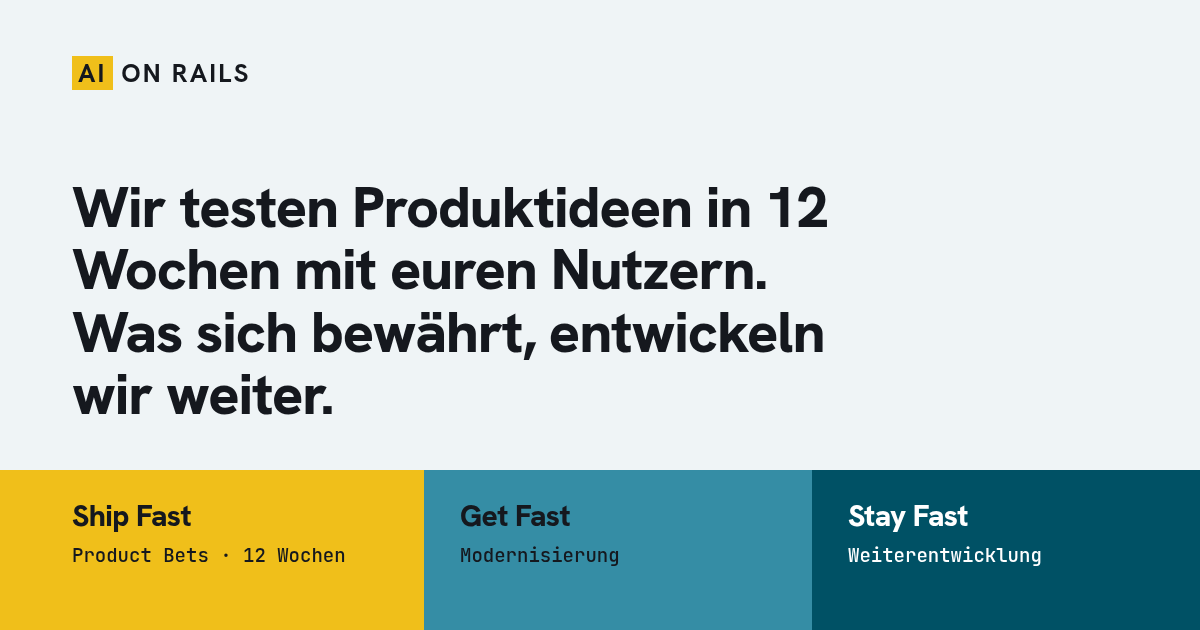
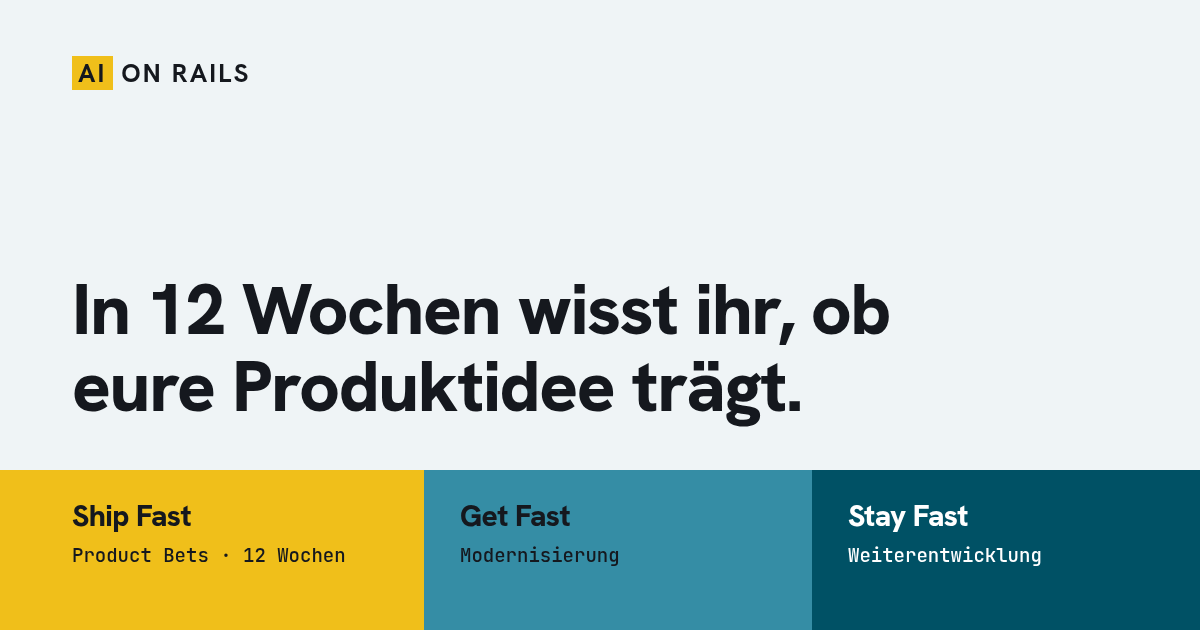
Startseite: Header nach Wert-Gleichung (Variante A)
- H1: Ergebnis statt Tätigkeit ('In 12 Wochen wisst ihr, ob eure Produktidee trägt.')
- Unterzeile: Woche 4 Test, Woche 12 Entscheidung, Festpreis, kein eigenes Team nötig
- CTA: 'Idee in 30 Minuten prüfen lassen', zweiter Button zum Ablauf
- Beleg-Zeile: Anrechnung Workshop-Tag, aktuelle Projekte
- Ship-Lead ohne Wiederholung des Headers, Kontakt-Text passend zum CTA, OG-Bild

Changed region(s): [[0.0617, 0.3921, 0.74, 0.6937], [0.0617, 0.3016, 0.7092, 0.3619]]

diff --git a/index.html b/index.html
@@ -4,11 +4,11 @@
   <meta charset="UTF-8">
   <meta name="viewport" content="width=device-width, initial-scale=1.0">
   <title>Produktentwicklung und Ruby on Rails Agentur Hamburg | ai-on-rails</title>
-  <meta name="description" content="Produktideen in 12 Wochen mit euren Nutzern testen und weiterentwickeln: Anforderungen, UX/UI-Design, Ruby on Rails. Agentur aus der Region Hamburg.">
+  <meta name="description" content="In 12 Wochen wissen, ob eine Produktidee trägt: laufende Anwendung auf euren Daten, Test mit euren Nutzern, Entscheidungsvorlage. Agentur, Region Hamburg.">
   <link rel="canonical" href="https://ai-on-rails.com/">
 
   <meta property="og:title" content="Produktentwicklung und Ruby on Rails Agentur Hamburg | ai-on-rails">
-  <meta property="og:description" content="Produktideen in 12 Wochen mit euren Nutzern testen und weiterentwickeln: Anforderungen, UX/UI-Design, Ruby on Rails. Agentur aus der Region Hamburg.">
+  <meta property="og:description" content="In 12 Wochen wissen, ob eine Produktidee trägt: laufende Anwendung auf euren Daten, Test mit euren Nutzern, Entscheidungsvorlage. Agentur, Region Hamburg.">
   <meta property="og:type" content="website">
   <meta property="og:url" content="https://ai-on-rails.com/">
   <meta property="og:image" content="https://ai-on-rails.com/og-image.png">
@@ -18,7 +18,7 @@
   <meta property="og:locale" content="de_DE">
   <meta name="twitter:card" content="summary_large_image">
   <meta name="twitter:title" content="Produktentwicklung und Ruby on Rails Agentur Hamburg | ai-on-rails">
-  <meta name="twitter:description" content="Produktideen in 12 Wochen mit euren Nutzern testen und weiterentwickeln: Anforderungen, UX/UI-Design, Ruby on Rails. Agentur aus der Region Hamburg.">
+  <meta name="twitter:description" content="In 12 Wochen wissen, ob eine Produktidee trägt: laufende Anwendung auf euren Daten, Test mit euren Nutzern, Entscheidungsvorlage. Agentur, Region Hamburg.">
   <meta name="twitter:image" content="https://ai-on-rails.com/og-image.png">
 
   <meta name="robots" content="index, follow">
@@ -87,7 +87,7 @@
       "@id": "https://ai-on-rails.com/#webpage",
       "url": "https://ai-on-rails.com/",
       "name": "Produktentwicklung und Ruby on Rails Agentur Hamburg | ai-on-rails",
-      "description": "Produktideen in 12 Wochen mit euren Nutzern testen und weiterentwickeln: Anforderungen, UX/UI-Design, Ruby on Rails. Agentur aus der Region Hamburg.",
+      "description": "In 12 Wochen wissen, ob eine Produktidee trägt: laufende Anwendung auf euren Daten, Test mit euren Nutzern, Entscheidungsvorlage. Agentur, Region Hamburg.",
       "inLanguage": "de-DE",
       "isPartOf": {
         "@id": "https://ai-on-rails.com/#website"
@@ -157,9 +157,10 @@
 <section class="start" id="start" aria-labelledby="start-h">
   <div class="in startgrid">
     <div>
-      <h1 id="start-h">Wir testen Produktideen in 12 Wochen mit euren Nutzern. Was sich bewährt, entwickeln wir weiter.</h1>
-      <p class="lead">ai-on-rails ist eine Agentur für Produktentwicklung aus der Region Hamburg. Wir klären Anforderungen, entwerfen UX und UI und entwickeln mit Ruby on Rails, auf euren Daten. Bestehende Webanwendungen modernisieren wir und entwickeln sie weiter.</p>
-      <div class="row"><a class="btn" href="#kontakt">Gespräch vereinbaren</a><a class="btn ghost" href="#ship">Leistungen ansehen</a></div>
+      <h1 id="start-h">In 12 Wochen wisst ihr, ob eure Produktidee trägt.</h1>
+      <p class="lead">Wir bauen sie als laufende Anwendung auf euren Daten. Ab Woche 4 testen eure Nutzer, in Woche 12 liegt die Entscheidungsvorlage: weiterbauen, umbauen oder stoppen. Zum Festpreis, bevor ihr ein Team einstellt.</p>
+      <div class="row"><a class="btn" href="#kontakt">Idee in 30 Minuten prüfen lassen</a><a class="btn ghost" href="/product-bets#ablauf">Ablauf ansehen</a></div>
+      <p class="proof">Der Workshop-Tag zum Einstieg wird bei Beauftragung angerechnet.<br>Aktuell: <a href="#projekte">KI-Produkt für Modemarken, SaaS-Plattform für Versicherer</a></p>
     </div>
     <ol class="index" aria-label="Leistungen">
       <li><a href="#ship"><i style="background:var(--ship)"></i>Product Bets</a><span>12 Wochen</span></li>
@@ -174,7 +175,7 @@
     <div class="margin"><span class="name">Ship Fast</span><span class="sub">12 Wochen · Festpreis</span></div>
     <div class="leaf">
       <h2 id="ship-h">Product Bets: eine Produktidee in 12 Wochen testen</h2>
-      <p class="lead">Von den Anforderungen über UX-Konzept und Design bis zur laufenden Anwendung auf euren Daten, in 12 Wochen. In Woche 12 liegt eine Entscheidungsvorlage: weiterbauen, umbauen oder stoppen.</p>
+      <p class="lead">Anforderungen mit eurem Fachbereich, UX-Konzept, Design und Entwicklung in einem Team. Ihr stellt die Idee, den Zugang zu euren Daten und die Testnutzer.</p>
       <dl class="brief">
         <div><dt>Laufzeit</dt><dd>12 Wochen</dd></div>
         <div><dt>Einstieg</dt><dd>Workshop-Tag</dd></div>
@@ -241,7 +242,7 @@
     </div>
 
     <div class="blk">
-      <h2>Projekte</h2>
+      <h2 id="projekte">Projekte</h2>
       <div class="cols3">
         <article><h3>KI-Produkt für Modemarken</h3><span class="m">Stay Fast · E-Commerce · seit März 2026</span>
           <dl class="facts">
@@ -297,8 +298,8 @@
   <div class="in grid">
     <div class="margin"><span class="name">Kontakt</span><span class="sub">30 Minuten</span></div>
     <div class="leaf">
-      <h2 id="k-h">Gespräch vereinbaren</h2>
-      <p class="lead">30 Minuten, unverbindlich. Wir klären, welche Leistung passt und was der nächste Schritt wäre.</p>
+      <h2 id="k-h">Idee prüfen lassen</h2>
+      <p class="lead">30 Minuten, unverbindlich. Ihr beschreibt eure Idee oder eure Anwendung, wir sagen, ob sie in 12 Wochen testbar ist oder was der erste Schritt wäre.</p>
       <div class="row"><a class="btn" href="https://calendar.app.google/VdnLNLqjpSR4MS6G7" target="_blank" rel="noopener">Termin wählen</a><a class="btn ghost" href="mailto:hello@ai-on-rails.com">hello@ai-on-rails.com</a></div>
     </div>
   </div>

diff --git a/.impeccable/og/og.html b/.impeccable/og/og.html
@@ -5,7 +5,7 @@
 html,body{margin:0;width:1200px;height:630px;background:#eff4f6;color:#15181e;font-family:"Hanken Grotesk",sans-serif;overflow:hidden}
 .w{position:absolute;left:0;right:0;top:0;height:470px;padding:56px 72px 0;box-sizing:border-box;display:flex;flex-direction:column}
 .b{font-weight:700;font-size:26px;letter-spacing:.08em}.b span{background:#f0bf1a;color:#15181e;padding:0 6px}
-h1{font-weight:800;font-size:58px;line-height:1.08;letter-spacing:-.02em;margin:auto 0 44px;max-width:24ch}
+h1{font-weight:800;font-size:72px;line-height:1.08;letter-spacing:-.02em;margin:auto 0 44px;max-width:24ch}
 .r{position:absolute;left:0;right:0;bottom:0;height:160px;display:flex}
 .r div{flex:1;padding:26px 72px 0 36px;box-sizing:border-box}
 .r div:first-child{padding-left:72px}
@@ -13,7 +13,7 @@ h1{font-weight:800;font-size:58px;line-height:1.08;letter-spacing:-.02em;margin:
 .r span{display:block;margin-top:8px;font:500 19px "JetBrains Mono",monospace}
 </style></head><body>
 <div class="w"><div class="b"><span>AI</span> ON RAILS</div>
-<h1>Wir testen Produktideen in 12 Wochen mit euren Nutzern. Was sich bewährt, entwickeln wir weiter.</h1></div>
+<h1>In 12 Wochen wisst ihr, ob eure Produktidee trägt.</h1></div>
 <div class="r">
 <div style="background:#f0bf1a;color:#15181e"><b>Ship Fast</b><span>Product Bets · 12 Wochen</span></div>
 <div style="background:#358da5;color:#15181e"><b>Get Fast</b><span>Modernisierung</span></div>

diff --git a/assets/site.css b/assets/site.css
@@ -75,6 +75,8 @@ h1, h2, h3 { font-family: var(--sans); font-weight: 700; line-height: 1.15; lett
 .startgrid { display: grid; grid-template-columns: minmax(0, 2fr) minmax(0, 1fr); gap: 40px; align-items: end; }
 .start h1 { font-size: clamp(2rem, 4vw, 3rem); max-width: 24ch; }
 .start .lead { font-size: 1.15rem; color: var(--ink-2); margin-top: 20px; max-width: 56ch; }
+.start .proof { margin-top: 18px; font: 500 .9rem/1.6 var(--sans); color: var(--ink-2); }
+.start .proof a { color: var(--ink); }
 .index { font: 500 .92rem var(--sans); list-style: none; padding: 0; border-top: 1.5px solid var(--ink); }
 .index li { display: flex; justify-content: space-between; align-items: baseline; gap: 12px; padding: 9px 0; border-bottom: 1px solid var(--rule); }
 .index a { text-decoration: none; display: flex; align-items: center; gap: 10px; }

diff --git a/product-bets.html b/product-bets.html
@@ -217,7 +217,7 @@
         <div class="row"><a class="btn" href="#kontakt">Gespräch vereinbaren</a></div>
       </div>
       <div class="leaf">
-        <h2>Ablauf</h2>
+        <h2 id="ablauf">Ablauf</h2>
         <ol class="track w-bet">
           <li><span class="w">Woche 1–2</span><b>Anforderungen und Ziel</b><span class="t">Anforderungen mit eurem Fachbereich, Erfolgs&shy;kriterium, UX-Konzept mit Nutzer&shy;flüssen und Wireframes. Ihr gebt das Kriterium frei.</span></li>
           <li><span class="w">Woche 3–10</span><b>Gestalten und entwickeln</b><span class="t">Design und Entwicklung der Anwendung auf euren Daten. Jede Woche eine Demo, ab Woche 4 eine testbare Version für Testnutzer, die ihr stellt.</span></li>

diff --git a/_build/build.py b/_build/build.py
@@ -269,15 +269,16 @@ def leaf(inner):
 # ---------------------------------------------------------------- Startseite
 start = dict(path="/", file="index.html",
              title="Produktentwicklung und Ruby on Rails Agentur Hamburg | ai-on-rails",
-             desc="Produktideen in 12 Wochen mit euren Nutzern testen und weiterentwickeln: Anforderungen, UX/UI-Design, Ruby on Rails. Agentur aus der Region Hamburg.")
+             desc="In 12 Wochen wissen, ob eine Produktidee trägt: laufende Anwendung auf euren Daten, Test mit euren Nutzern, Entscheidungsvorlage. Agentur, Region Hamburg.")
 
 start_body = f"""
 <section class="start" id="start" aria-labelledby="start-h">
   <div class="in startgrid">
     <div>
-      <h1 id="start-h">Wir testen Produktideen in 12 Wochen mit euren Nutzern. Was sich bewährt, entwickeln wir weiter.</h1>
-      <p class="lead">ai-on-rails ist eine Agentur für Produktentwicklung aus der Region Hamburg. Wir klären Anforderungen, entwerfen UX und UI und entwickeln mit Ruby on Rails, auf euren Daten. Bestehende Webanwendungen modernisieren wir und entwickeln sie weiter.</p>
-      <div class="row"><a class="btn" href="#kontakt">Gespräch vereinbaren</a><a class="btn ghost" href="#ship">Leistungen ansehen</a></div>
+      <h1 id="start-h">In 12 Wochen wisst ihr, ob eure Produktidee trägt.</h1>
+      <p class="lead">Wir bauen sie als laufende Anwendung auf euren Daten. Ab Woche 4 testen eure Nutzer, in Woche 12 liegt die Entscheidungsvorlage: weiterbauen, umbauen oder stoppen. Zum Festpreis, bevor ihr ein Team einstellt.</p>
+      <div class="row"><a class="btn" href="#kontakt">Idee in 30 Minuten prüfen lassen</a><a class="btn ghost" href="/product-bets#ablauf">Ablauf ansehen</a></div>
+      <p class="proof">Der Workshop-Tag zum Einstieg wird bei Beauftragung angerechnet.<br>Aktuell: <a href="#projekte">KI-Produkt für Modemarken, SaaS-Plattform für Versicherer</a></p>
     </div>
     <ol class="index" aria-label="Leistungen">
       <li><a href="#ship"><i style="background:var(--ship)"></i>Product Bets</a><span>12 Wochen</span></li>
@@ -292,7 +293,7 @@ start_body = f"""
     <div class="margin"><span class="name">Ship Fast</span><span class="sub">12 Wochen · Festpreis</span></div>
     <div class="leaf">
       <h2 id="ship-h">Product Bets: eine Produktidee in 12 Wochen testen</h2>
-      <p class="lead">Von den Anforderungen über UX-Konzept und Design bis zur laufenden Anwendung auf euren Daten, in 12 Wochen. In Woche 12 liegt eine Entscheidungsvorlage: weiterbauen, umbauen oder stoppen.</p>
+      <p class="lead">Anforderungen mit eurem Fachbereich, UX-Konzept, Design und Entwicklung in einem Team. Ihr stellt die Idee, den Zugang zu euren Daten und die Testnutzer.</p>
       {BRIEF_SHIP}
       <div class="row"><a class="btn" href="/product-bets">Product Bets im Detail</a></div>
     </div>
@@ -344,7 +345,7 @@ start_body = f"""
     </div>
 
     <div class="blk">
-      <h2>Projekte</h2>
+      <h2 id="projekte">Projekte</h2>
       <div class="cols3">
         <article><h3>KI-Produkt für Modemarken</h3><span class="m">Stay Fast · E-Commerce · seit März 2026</span>
           <dl class="facts">
@@ -395,7 +396,7 @@ start_body = f"""
     </div>
   </div>
 </section>
-""" + contact("Gespräch vereinbaren", "30 Minuten, unverbindlich. Wir klären, welche Leistung passt und was der nächste Schritt wäre.")
+""" + contact("Idee prüfen lassen", "30 Minuten, unverbindlich. Ihr beschreibt eure Idee oder eure Anwendung, wir sagen, ob sie in 12 Wochen testbar ist oder was der erste Schritt wäre.")
 
 # ---------------------------------------------------------------- Product Bets
 bets_faq = [
@@ -421,7 +422,7 @@ bets_body = f"""
         <div class="row"><a class="btn" href="#kontakt">Gespräch vereinbaren</a></div>
       </div>
       <div class="leaf">
-        <h2>Ablauf</h2>
+        <h2 id="ablauf">Ablauf</h2>
         <ol class="track w-bet">
           <li><span class="w">Woche 1–2</span><b>Anforderungen und Ziel</b><span class="t">Anforderungen mit eurem Fachbereich, Erfolgs&shy;kriterium, UX-Konzept mit Nutzer&shy;flüssen und Wireframes. Ihr gebt das Kriterium frei.</span></li>
           <li><span class="w">Woche 3–10</span><b>Gestalten und entwickeln</b><span class="t">Design und Entwicklung der Anwendung auf euren Daten. Jede Woche eine Demo, ab Woche 4 eine testbare Version für Testnutzer, die ihr stellt.</span></li>
